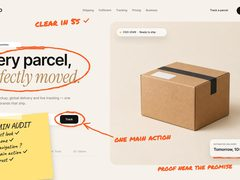
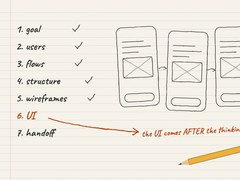
Explore menu: new Blog thumbnail (design process notebook)
Claude-Session: https://claude.ai/code/session_01PDiCoiS8fQavZrhd29JHkY

diff --git a/blog/before-website-redesign-checklist.html b/blog/before-website-redesign-checklist.html
@@ -183,7 +183,7 @@
           <span class="nav__txt"><b>About</b><small>Who I am and how I work</small></span><svg class="nav__ar" viewBox="0 0 16 16" aria-hidden="true"><path d="M3 13 13 3M5 3h8v8" fill="none" stroke="currentColor" stroke-width="1.8" stroke-linecap="round" stroke-linejoin="round"/></svg>
         </a>
         <a href="../blog" class="nav__item nav__item--big" role="menuitem">
-          <span class="nav__thumb"><img src="../images/nav/blog.jpg" alt="" width="120" height="90" decoding="async"></span>
+          <span class="nav__thumb"><img src="../images/nav/blog.jpg?v=2" alt="" width="120" height="90" decoding="async"></span>
           <span class="nav__txt"><b>Blog</b><small>Practical UI/UX guides</small></span><svg class="nav__ar" viewBox="0 0 16 16" aria-hidden="true"><path d="M3 13 13 3M5 3h8v8" fill="none" stroke="currentColor" stroke-width="1.8" stroke-linecap="round" stroke-linejoin="round"/></svg>
         </a>
         <a href="../blog/five-minute-ux-audit" class="nav__latest" role="menuitem"><i>NEW</i><span>What I Check in a 5-Minute UX Audit</span></a>

diff --git a/blog/checkout-ux-details.html b/blog/checkout-ux-details.html
@@ -183,7 +183,7 @@
           <span class="nav__txt"><b>About</b><small>Who I am and how I work</small></span><svg class="nav__ar" viewBox="0 0 16 16" aria-hidden="true"><path d="M3 13 13 3M5 3h8v8" fill="none" stroke="currentColor" stroke-width="1.8" stroke-linecap="round" stroke-linejoin="round"/></svg>
         </a>
         <a href="../blog" class="nav__item nav__item--big" role="menuitem">
-          <span class="nav__thumb"><img src="../images/nav/blog.jpg" alt="" width="120" height="90" decoding="async"></span>
+          <span class="nav__thumb"><img src="../images/nav/blog.jpg?v=2" alt="" width="120" height="90" decoding="async"></span>
           <span class="nav__txt"><b>Blog</b><small>Practical UI/UX guides</small></span><svg class="nav__ar" viewBox="0 0 16 16" aria-hidden="true"><path d="M3 13 13 3M5 3h8v8" fill="none" stroke="currentColor" stroke-width="1.8" stroke-linecap="round" stroke-linejoin="round"/></svg>
         </a>
         <a href="../blog/five-minute-ux-audit" class="nav__latest" role="menuitem"><i>NEW</i><span>What I Check in a 5-Minute UX Audit</span></a>

diff --git a/blog/confusing-dashboard-signs.html b/blog/confusing-dashboard-signs.html
@@ -183,7 +183,7 @@
           <span class="nav__txt"><b>About</b><small>Who I am and how I work</small></span><svg class="nav__ar" viewBox="0 0 16 16" aria-hidden="true"><path d="M3 13 13 3M5 3h8v8" fill="none" stroke="currentColor" stroke-width="1.8" stroke-linecap="round" stroke-linejoin="round"/></svg>
         </a>
         <a href="../blog" class="nav__item nav__item--big" role="menuitem">
-          <span class="nav__thumb"><img src="../images/nav/blog.jpg" alt="" width="120" height="90" decoding="async"></span>
+          <span class="nav__thumb"><img src="../images/nav/blog.jpg?v=2" alt="" width="120" height="90" decoding="async"></span>
           <span class="nav__txt"><b>Blog</b><small>Practical UI/UX guides</small></span><svg class="nav__ar" viewBox="0 0 16 16" aria-hidden="true"><path d="M3 13 13 3M5 3h8v8" fill="none" stroke="currentColor" stroke-width="1.8" stroke-linecap="round" stroke-linejoin="round"/></svg>
         </a>
         <a href="../blog/five-minute-ux-audit" class="nav__latest" role="menuitem"><i>NEW</i><span>What I Check in a 5-Minute UX Audit</span></a>

diff --git a/blog/design-system-early-startups.html b/blog/design-system-early-startups.html
@@ -183,7 +183,7 @@
           <span class="nav__txt"><b>About</b><small>Who I am and how I work</small></span><svg class="nav__ar" viewBox="0 0 16 16" aria-hidden="true"><path d="M3 13 13 3M5 3h8v8" fill="none" stroke="currentColor" stroke-width="1.8" stroke-linecap="round" stroke-linejoin="round"/></svg>
         </a>
         <a href="../blog" class="nav__item nav__item--big" role="menuitem">
-          <span class="nav__thumb"><img src="../images/nav/blog.jpg" alt="" width="120" height="90" decoding="async"></span>
+          <span class="nav__thumb"><img src="../images/nav/blog.jpg?v=2" alt="" width="120" height="90" decoding="async"></span>
           <span class="nav__txt"><b>Blog</b><small>Practical UI/UX guides</small></span><svg class="nav__ar" viewBox="0 0 16 16" aria-hidden="true"><path d="M3 13 13 3M5 3h8v8" fill="none" stroke="currentColor" stroke-width="1.8" stroke-linecap="round" stroke-linejoin="round"/></svg>
         </a>
         <a href="../blog/five-minute-ux-audit" class="nav__latest" role="menuitem"><i>NEW</i><span>What I Check in a 5-Minute UX Audit</span></a>

diff --git a/blog/figma-design-system-for-startups.html b/blog/figma-design-system-for-startups.html
@@ -175,7 +175,7 @@
           <span class="nav__txt"><b>About</b><small>Who I am and how I work</small></span><svg class="nav__ar" viewBox="0 0 16 16" aria-hidden="true"><path d="M3 13 13 3M5 3h8v8" fill="none" stroke="currentColor" stroke-width="1.8" stroke-linecap="round" stroke-linejoin="round"/></svg>
         </a>
         <a href="../blog" class="nav__item nav__item--big" role="menuitem">
-          <span class="nav__thumb"><img src="../images/nav/blog.jpg" alt="" width="120" height="90" decoding="async"></span>
+          <span class="nav__thumb"><img src="../images/nav/blog.jpg?v=2" alt="" width="120" height="90" decoding="async"></span>
           <span class="nav__txt"><b>Blog</b><small>Practical UI/UX guides</small></span><svg class="nav__ar" viewBox="0 0 16 16" aria-hidden="true"><path d="M3 13 13 3M5 3h8v8" fill="none" stroke="currentColor" stroke-width="1.8" stroke-linecap="round" stroke-linejoin="round"/></svg>
         </a>
         <a href="../blog/five-minute-ux-audit" class="nav__latest" role="menuitem"><i>NEW</i><span>What I Check in a 5-Minute UX Audit</span></a>

diff --git a/blog/five-minute-ux-audit.html b/blog/five-minute-ux-audit.html
@@ -183,7 +183,7 @@
           <span class="nav__txt"><b>About</b><small>Who I am and how I work</small></span><svg class="nav__ar" viewBox="0 0 16 16" aria-hidden="true"><path d="M3 13 13 3M5 3h8v8" fill="none" stroke="currentColor" stroke-width="1.8" stroke-linecap="round" stroke-linejoin="round"/></svg>
         </a>
         <a href="../blog" class="nav__item nav__item--big" role="menuitem">
-          <span class="nav__thumb"><img src="../images/nav/blog.jpg" alt="" width="120" height="90" decoding="async"></span>
+          <span class="nav__thumb"><img src="../images/nav/blog.jpg?v=2" alt="" width="120" height="90" decoding="async"></span>
           <span class="nav__txt"><b>Blog</b><small>Practical UI/UX guides</small></span><svg class="nav__ar" viewBox="0 0 16 16" aria-hidden="true"><path d="M3 13 13 3M5 3h8v8" fill="none" stroke="currentColor" stroke-width="1.8" stroke-linecap="round" stroke-linejoin="round"/></svg>
         </a>
         <a href="../blog/five-minute-ux-audit" class="nav__latest" role="menuitem"><i>NEW</i><span>What I Check in a 5-Minute UX Audit</span></a>

diff --git a/blog/freelance-ui-ux-designer-vs-agency.html b/blog/freelance-ui-ux-designer-vs-agency.html
@@ -175,7 +175,7 @@
           <span class="nav__txt"><b>About</b><small>Who I am and how I work</small></span><svg class="nav__ar" viewBox="0 0 16 16" aria-hidden="true"><path d="M3 13 13 3M5 3h8v8" fill="none" stroke="currentColor" stroke-width="1.8" stroke-linecap="round" stroke-linejoin="round"/></svg>
         </a>
         <a href="../blog" class="nav__item nav__item--big" role="menuitem">
-          <span class="nav__thumb"><img src="../images/nav/blog.jpg" alt="" width="120" height="90" decoding="async"></span>
+          <span class="nav__thumb"><img src="../images/nav/blog.jpg?v=2" alt="" width="120" height="90" decoding="async"></span>
           <span class="nav__txt"><b>Blog</b><small>Practical UI/UX guides</small></span><svg class="nav__ar" viewBox="0 0 16 16" aria-hidden="true"><path d="M3 13 13 3M5 3h8v8" fill="none" stroke="currentColor" stroke-width="1.8" stroke-linecap="round" stroke-linejoin="round"/></svg>
         </a>
         <a href="../blog/five-minute-ux-audit" class="nav__latest" role="menuitem"><i>NEW</i><span>What I Check in a 5-Minute UX Audit</span></a>

diff --git a/blog/landing-page-5-second-test.html b/blog/landing-page-5-second-test.html
@@ -183,7 +183,7 @@
           <span class="nav__txt"><b>About</b><small>Who I am and how I work</small></span><svg class="nav__ar" viewBox="0 0 16 16" aria-hidden="true"><path d="M3 13 13 3M5 3h8v8" fill="none" stroke="currentColor" stroke-width="1.8" stroke-linecap="round" stroke-linejoin="round"/></svg>
         </a>
         <a href="../blog" class="nav__item nav__item--big" role="menuitem">
-          <span class="nav__thumb"><img src="../images/nav/blog.jpg" alt="" width="120" height="90" decoding="async"></span>
+          <span class="nav__thumb"><img src="../images/nav/blog.jpg?v=2" alt="" width="120" height="90" decoding="async"></span>
           <span class="nav__txt"><b>Blog</b><small>Practical UI/UX guides</small></span><svg class="nav__ar" viewBox="0 0 16 16" aria-hidden="true"><path d="M3 13 13 3M5 3h8v8" fill="none" stroke="currentColor" stroke-width="1.8" stroke-linecap="round" stroke-linejoin="round"/></svg>
         </a>
         <a href="../blog/five-minute-ux-audit" class="nav__latest" role="menuitem"><i>NEW</i><span>What I Check in a 5-Minute UX Audit</span></a>

diff --git a/blog/landing-page-conversion-fixes.html b/blog/landing-page-conversion-fixes.html
@@ -175,7 +175,7 @@
           <span class="nav__txt"><b>About</b><small>Who I am and how I work</small></span><svg class="nav__ar" viewBox="0 0 16 16" aria-hidden="true"><path d="M3 13 13 3M5 3h8v8" fill="none" stroke="currentColor" stroke-width="1.8" stroke-linecap="round" stroke-linejoin="round"/></svg>
         </a>
         <a href="../blog" class="nav__item nav__item--big" role="menuitem">
-          <span class="nav__thumb"><img src="../images/nav/blog.jpg" alt="" width="120" height="90" decoding="async"></span>
+          <span class="nav__thumb"><img src="../images/nav/blog.jpg?v=2" alt="" width="120" height="90" decoding="async"></span>
           <span class="nav__txt"><b>Blog</b><small>Practical UI/UX guides</small></span><svg class="nav__ar" viewBox="0 0 16 16" aria-hidden="true"><path d="M3 13 13 3M5 3h8v8" fill="none" stroke="currentColor" stroke-width="1.8" stroke-linecap="round" stroke-linejoin="round"/></svg>
         </a>
         <a href="../blog/five-minute-ux-audit" class="nav__latest" role="menuitem"><i>NEW</i><span>What I Check in a 5-Minute UX Audit</span></a>

diff --git a/blog/mobile-app-onboarding-ux.html b/blog/mobile-app-onboarding-ux.html
@@ -175,7 +175,7 @@
           <span class="nav__txt"><b>About</b><small>Who I am and how I work</small></span><svg class="nav__ar" viewBox="0 0 16 16" aria-hidden="true"><path d="M3 13 13 3M5 3h8v8" fill="none" stroke="currentColor" stroke-width="1.8" stroke-linecap="round" stroke-linejoin="round"/></svg>
         </a>
         <a href="../blog" class="nav__item nav__item--big" role="menuitem">
-          <span class="nav__thumb"><img src="../images/nav/blog.jpg" alt="" width="120" height="90" decoding="async"></span>
+          <span class="nav__thumb"><img src="../images/nav/blog.jpg?v=2" alt="" width="120" height="90" decoding="async"></span>
           <span class="nav__txt"><b>Blog</b><small>Practical UI/UX guides</small></span><svg class="nav__ar" viewBox="0 0 16 16" aria-hidden="true"><path d="M3 13 13 3M5 3h8v8" fill="none" stroke="currentColor" stroke-width="1.8" stroke-linecap="round" stroke-linejoin="round"/></svg>
         </a>
         <a href="../blog/five-minute-ux-audit" class="nav__latest" role="menuitem"><i>NEW</i><span>What I Check in a 5-Minute UX Audit</span></a>

diff --git a/blog/saas-dashboard-design-principles.html b/blog/saas-dashboard-design-principles.html
@@ -175,7 +175,7 @@
           <span class="nav__txt"><b>About</b><small>Who I am and how I work</small></span><svg class="nav__ar" viewBox="0 0 16 16" aria-hidden="true"><path d="M3 13 13 3M5 3h8v8" fill="none" stroke="currentColor" stroke-width="1.8" stroke-linecap="round" stroke-linejoin="round"/></svg>
         </a>
         <a href="../blog" class="nav__item nav__item--big" role="menuitem">
-          <span class="nav__thumb"><img src="../images/nav/blog.jpg" alt="" width="120" height="90" decoding="async"></span>
+          <span class="nav__thumb"><img src="../images/nav/blog.jpg?v=2" alt="" width="120" height="90" decoding="async"></span>
           <span class="nav__txt"><b>Blog</b><small>Practical UI/UX guides</small></span><svg class="nav__ar" viewBox="0 0 16 16" aria-hidden="true"><path d="M3 13 13 3M5 3h8v8" fill="none" stroke="currentColor" stroke-width="1.8" stroke-linecap="round" stroke-linejoin="round"/></svg>
         </a>
         <a href="../blog/five-minute-ux-audit" class="nav__latest" role="menuitem"><i>NEW</i><span>What I Check in a 5-Minute UX Audit</span></a>

diff --git a/blog/saas-onboarding-first-win.html b/blog/saas-onboarding-first-win.html
@@ -183,7 +183,7 @@
           <span class="nav__txt"><b>About</b><small>Who I am and how I work</small></span><svg class="nav__ar" viewBox="0 0 16 16" aria-hidden="true"><path d="M3 13 13 3M5 3h8v8" fill="none" stroke="currentColor" stroke-width="1.8" stroke-linecap="round" stroke-linejoin="round"/></svg>
         </a>
         <a href="../blog" class="nav__item nav__item--big" role="menuitem">
-          <span class="nav__thumb"><img src="../images/nav/blog.jpg" alt="" width="120" height="90" decoding="async"></span>
+          <span class="nav__thumb"><img src="../images/nav/blog.jpg?v=2" alt="" width="120" height="90" decoding="async"></span>
           <span class="nav__txt"><b>Blog</b><small>Practical UI/UX guides</small></span><svg class="nav__ar" viewBox="0 0 16 16" aria-hidden="true"><path d="M3 13 13 3M5 3h8v8" fill="none" stroke="currentColor" stroke-width="1.8" stroke-linecap="round" stroke-linejoin="round"/></svg>
         </a>
         <a href="../blog/five-minute-ux-audit" class="nav__latest" role="menuitem"><i>NEW</i><span>What I Check in a 5-Minute UX Audit</span></a>
